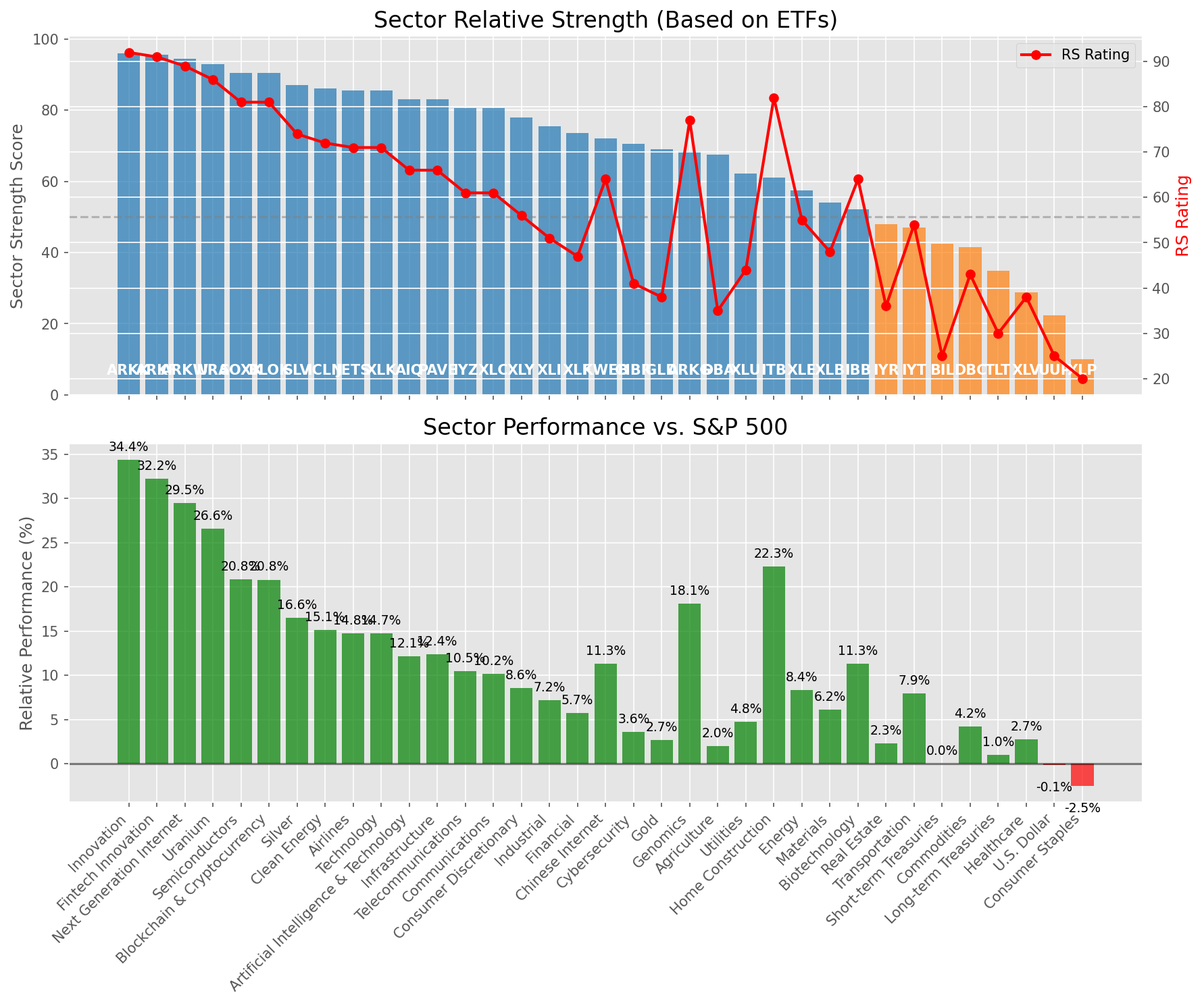
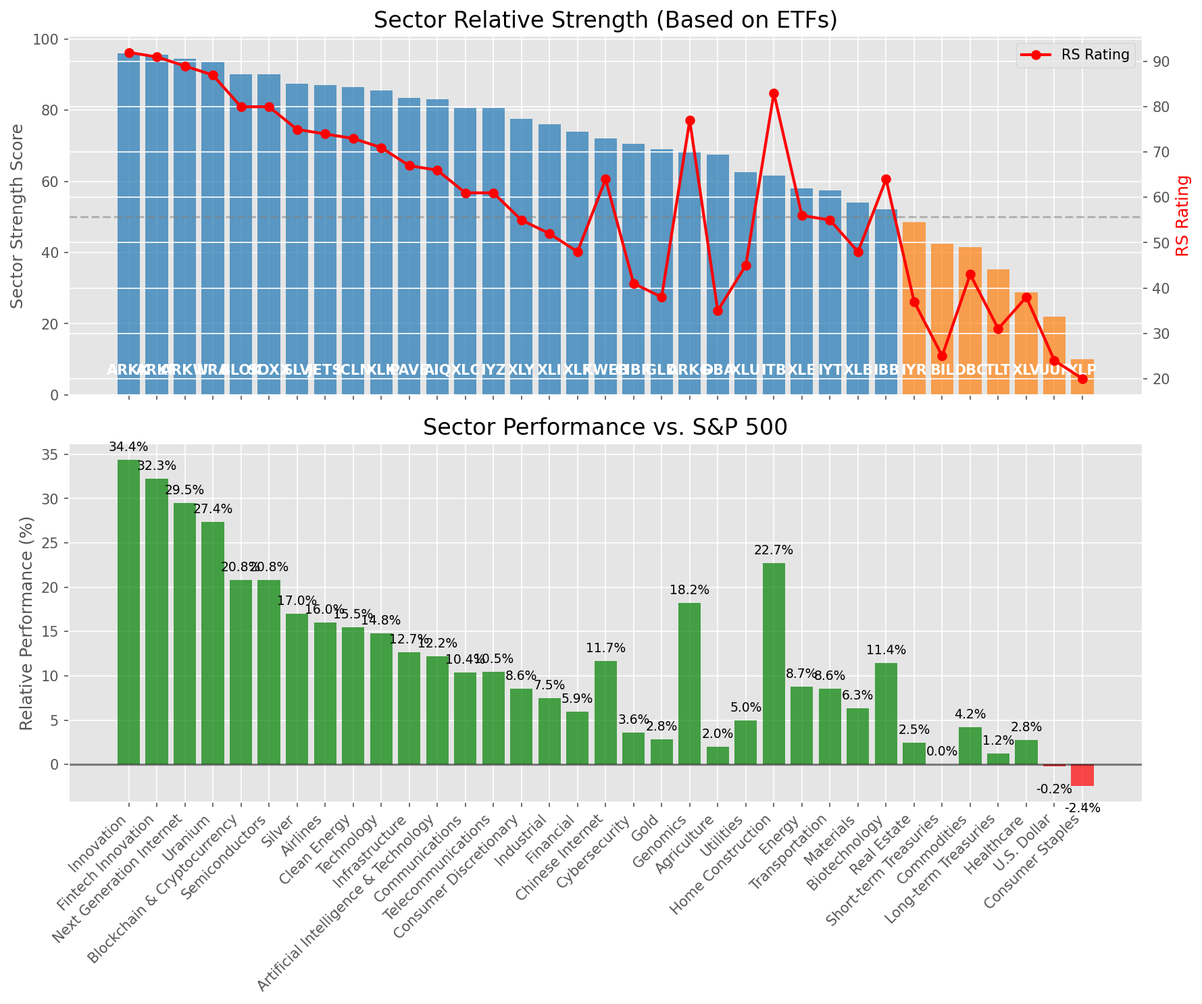
Add market report for 2025-08-28

diff --git a/oneil_relative_strength_report_2025-08-28.md b/oneil_relative_strength_report_2025-08-28.md
@@ -13,7 +13,7 @@
 | **Historical Mean** | 9.94 |
 | **Standard Deviation** | 0.38 |
 | **Z-Score (StdDev from Mean)** | 1.49 |
-| **Total Market Cap** | $319.36 trillion |
+| **Total Market Cap** | $319.47 trillion |
 | **GDP** | $30.35 trillion |
 
 ## **Market Insights**
@@ -50,40 +50,40 @@ Based on William O'Neil's Relative Strength Methodology
 | ETF | Strength | RS Rating | Performance | Above Key MAs | Trend | Sector |
 |-----|----------|-----------|-------------|--------------|-------|--------|
 | [ARKK](https://www.tradingview.com/chart/?symbol=ARKK) | 96.0 | 92.0 | 34.39% | 10d ✓, 50d ✓, 200d ✓ | ↗ | Innovation |
-| [ARKF](https://www.tradingview.com/chart/?symbol=ARKF) | 95.5 | 91.0 | 32.21% | 10d ✓, 50d ✓, 200d ✓ | ↗ | Fintech Innovation |
+| [ARKF](https://www.tradingview.com/chart/?symbol=ARKF) | 95.5 | 91.0 | 32.27% | 10d ✓, 50d ✓, 200d ✓ | ↗ | Fintech Innovation |
 | [ARKW](https://www.tradingview.com/chart/?symbol=ARKW) | 94.5 | 89.0 | 29.50% | 10d ✓, 50d ✓, 200d ✓ | ↗ | Next Generation Internet |
-| [URA](https://www.tradingview.com/chart/?symbol=URA) | 93.0 | 86.0 | 26.60% | 10d ✓, 50d ✓, 200d ✓ | ↗ | Uranium |
-| [SOXX](https://www.tradingview.com/chart/?symbol=SOXX) | 90.5 | 81.0 | 20.84% | 10d ✓, 50d ✓, 200d ✓ | ↗ | Semiconductors |
-| [BLOK](https://www.tradingview.com/chart/?symbol=BLOK) | 90.5 | 81.0 | 20.83% | 10d ✓, 50d ✓, 200d ✓ | ↗ | Blockchain & Cryptocurrency |
-| [SLV](https://www.tradingview.com/chart/?symbol=SLV) | 87.0 | 74.0 | 16.55% | 10d ✓, 50d ✓, 200d ✓ | ↗ | Silver |
-| [ICLN](https://www.tradingview.com/chart/?symbol=ICLN) | 86.0 | 72.0 | 15.15% | 10d ✓, 50d ✓, 200d ✓ | ↗ | Clean Energy |
-| [JETS](https://www.tradingview.com/chart/?symbol=JETS) | 85.5 | 71.0 | 14.78% | 10d ✓, 50d ✓, 200d ✓ | ↗ | Airlines |
-| [XLK](https://www.tradingview.com/chart/?symbol=XLK) | 85.5 | 71.0 | 14.73% | 10d ✓, 50d ✓, 200d ✓ | ↗ | Technology |
-| [AIQ](https://www.tradingview.com/chart/?symbol=AIQ) | 83.0 | 66.0 | 12.15% | 10d ✓, 50d ✓, 200d ✓ | ↗ | Artificial Intelligence & Technology |
-| [PAVE](https://www.tradingview.com/chart/?symbol=PAVE) | 83.0 | 66.0 | 12.39% | 10d ✓, 50d ✓, 200d ✓ | ↗ | Infrastructure |
+| [URA](https://www.tradingview.com/chart/?symbol=URA) | 93.5 | 87.0 | 27.37% | 10d ✓, 50d ✓, 200d ✓ | ↗ | Uranium |
+| [BLOK](https://www.tradingview.com/chart/?symbol=BLOK) | 90.0 | 80.0 | 20.83% | 10d ✓, 50d ✓, 200d ✓ | ↗ | Blockchain & Cryptocurrency |
+| [SOXX](https://www.tradingview.com/chart/?symbol=SOXX) | 90.0 | 80.0 | 20.84% | 10d ✓, 50d ✓, 200d ✓ | ↗ | Semiconductors |
+| [SLV](https://www.tradingview.com/chart/?symbol=SLV) | 87.5 | 75.0 | 16.98% | 10d ✓, 50d ✓, 200d ✓ | ↗ | Silver |
+| [JETS](https://www.tradingview.com/chart/?symbol=JETS) | 87.0 | 74.0 | 16.01% | 10d ✓, 50d ✓, 200d ✓ | ↗ | Airlines |
+| [ICLN](https://www.tradingview.com/chart/?symbol=ICLN) | 86.5 | 73.0 | 15.46% | 10d ✓, 50d ✓, 200d ✓ | ↗ | Clean Energy |
+| [XLK](https://www.tradingview.com/chart/?symbol=XLK) | 85.5 | 71.0 | 14.77% | 10d ✓, 50d ✓, 200d ✓ | ↗ | Technology |
+| [PAVE](https://www.tradingview.com/chart/?symbol=PAVE) | 83.5 | 67.0 | 12.70% | 10d ✓, 50d ✓, 200d ✓ | ↗ | Infrastructure |
+| [AIQ](https://www.tradingview.com/chart/?symbol=AIQ) | 83.0 | 66.0 | 12.24% | 10d ✓, 50d ✓, 200d ✓ | ↗ | Artificial Intelligence & Technology |
+| [XLC](https://www.tradingview.com/chart/?symbol=XLC) | 80.5 | 61.0 | 10.36% | 10d ✓, 50d ✓, 200d ✓ | ↗ | Communications |
 | [IYZ](https://www.tradingview.com/chart/?symbol=IYZ) | 80.5 | 61.0 | 10.46% | 10d ✓, 50d ✓, 200d ✓ | ↗ | Telecommunications |
-| [XLC](https://www.tradingview.com/chart/?symbol=XLC) | 80.5 | 61.0 | 10.20% | 10d ✓, 50d ✓, 200d ✓ | ↗ | Communications |
-| [XLY](https://www.tradingview.com/chart/?symbol=XLY) | 78.0 | 56.0 | 8.61% | 10d ✓, 50d ✓, 200d ✓ | ↗ | Consumer Discretionary |
-| [XLI](https://www.tradingview.com/chart/?symbol=XLI) | 75.5 | 51.0 | 7.18% | 10d ✓, 50d ✓, 200d ✓ | ↗ | Industrial |
-| [XLF](https://www.tradingview.com/chart/?symbol=XLF) | 73.5 | 47.0 | 5.73% | 10d ✓, 50d ✓, 200d ✓ | ↗ | Financial |
-| [KWEB](https://www.tradingview.com/chart/?symbol=KWEB) | 72.1 | 64.0 | 11.31% | 10d ✗, 50d ✓, 200d ✓ | ↗ | Chinese Internet |
-| [CIBR](https://www.tradingview.com/chart/?symbol=CIBR) | 70.5 | 41.0 | 3.61% | 10d ✓, 50d ✓, 200d ✓ | ↗ | Cybersecurity |
-| [GLD](https://www.tradingview.com/chart/?symbol=GLD) | 69.0 | 38.0 | 2.71% | 10d ✓, 50d ✓, 200d ✓ | ↗ | Gold |
-| [ARKG](https://www.tradingview.com/chart/?symbol=ARKG) | 68.5 | 77.0 | 18.10% | 10d ✓, 50d ✓, 200d ✓ | ↘ | Genomics |
+| [XLY](https://www.tradingview.com/chart/?symbol=XLY) | 77.5 | 55.0 | 8.58% | 10d ✓, 50d ✓, 200d ✓ | ↗ | Consumer Discretionary |
+| [XLI](https://www.tradingview.com/chart/?symbol=XLI) | 76.0 | 52.0 | 7.51% | 10d ✓, 50d ✓, 200d ✓ | ↗ | Industrial |
+| [XLF](https://www.tradingview.com/chart/?symbol=XLF) | 74.0 | 48.0 | 5.95% | 10d ✓, 50d ✓, 200d ✓ | ↗ | Financial |
+| [KWEB](https://www.tradingview.com/chart/?symbol=KWEB) | 72.1 | 64.0 | 11.68% | 10d ✗, 50d ✓, 200d ✓ | ↗ | Chinese Internet |
+| [CIBR](https://www.tradingview.com/chart/?symbol=CIBR) | 70.5 | 41.0 | 3.59% | 10d ✓, 50d ✓, 200d ✓ | ↗ | Cybersecurity |
+| [GLD](https://www.tradingview.com/chart/?symbol=GLD) | 69.0 | 38.0 | 2.82% | 10d ✓, 50d ✓, 200d ✓ | ↗ | Gold |
+| [ARKG](https://www.tradingview.com/chart/?symbol=ARKG) | 68.5 | 77.0 | 18.22% | 10d ✓, 50d ✓, 200d ✓ | ↘ | Genomics |
 | [DBA](https://www.tradingview.com/chart/?symbol=DBA) | 67.5 | 35.0 | 1.99% | 10d ✓, 50d ✓, 200d ✓ | ↗ | Agriculture |
-| [XLU](https://www.tradingview.com/chart/?symbol=XLU) | 62.1 | 44.0 | 4.77% | 10d ✗, 50d ✓, 200d ✓ | ↗ | Utilities |
-| [ITB](https://www.tradingview.com/chart/?symbol=ITB) | 61.1 | 82.0 | 22.35% | 10d ✗, 50d ✓, 200d ✓ | ↘ | Home Construction |
-| [XLE](https://www.tradingview.com/chart/?symbol=XLE) | 57.5 | 55.0 | 8.35% | 10d ✓, 50d ✓, 200d ✓ | ↘ | Energy |
-| [XLB](https://www.tradingview.com/chart/?symbol=XLB) | 54.0 | 48.0 | 6.15% | 10d ✓, 50d ✓, 200d ✓ | ↘ | Materials |
-| [IBB](https://www.tradingview.com/chart/?symbol=IBB) | 52.1 | 64.0 | 11.34% | 10d ✗, 50d ✓, 200d ✓ | ↘ | Biotechnology |
-| [IYR](https://www.tradingview.com/chart/?symbol=IYR) | 48.0 | 36.0 | 2.34% | 10d ✓, 50d ✓, 200d ✓ | ↘ | Real Estate |
-| [IYT](https://www.tradingview.com/chart/?symbol=IYT) | 47.1 | 54.0 | 7.94% | 10d ✗, 50d ✓, 200d ✓ | ↘ | Transportation |
-| [BIL](https://www.tradingview.com/chart/?symbol=BIL) | 42.5 | 25.0 | 0.02% | 10d ✓, 50d ✓, 200d ✓ | ↘ | Short-term Treasuries |
+| [XLU](https://www.tradingview.com/chart/?symbol=XLU) | 62.6 | 45.0 | 4.99% | 10d ✗, 50d ✓, 200d ✓ | ↗ | Utilities |
+| [ITB](https://www.tradingview.com/chart/?symbol=ITB) | 61.6 | 83.0 | 22.70% | 10d ✗, 50d ✓, 200d ✓ | ↘ | Home Construction |
+| [XLE](https://www.tradingview.com/chart/?symbol=XLE) | 58.0 | 56.0 | 8.74% | 10d ✓, 50d ✓, 200d ✓ | ↘ | Energy |
+| [IYT](https://www.tradingview.com/chart/?symbol=IYT) | 57.5 | 55.0 | 8.56% | 10d ✓, 50d ✓, 200d ✓ | ↘ | Transportation |
+| [XLB](https://www.tradingview.com/chart/?symbol=XLB) | 54.0 | 48.0 | 6.31% | 10d ✓, 50d ✓, 200d ✓ | ↘ | Materials |
+| [IBB](https://www.tradingview.com/chart/?symbol=IBB) | 52.1 | 64.0 | 11.41% | 10d ✗, 50d ✓, 200d ✓ | ↘ | Biotechnology |
+| [IYR](https://www.tradingview.com/chart/?symbol=IYR) | 48.5 | 37.0 | 2.46% | 10d ✓, 50d ✓, 200d ✓ | ↘ | Real Estate |
+| [BIL](https://www.tradingview.com/chart/?symbol=BIL) | 42.5 | 25.0 | 0.03% | 10d ✓, 50d ✓, 200d ✓ | ↘ | Short-term Treasuries |
 | [DBC](https://www.tradingview.com/chart/?symbol=DBC) | 41.6 | 43.0 | 4.21% | 10d ✓, 50d ✗, 200d ✓ | ↘ | Commodities |
-| [TLT](https://www.tradingview.com/chart/?symbol=TLT) | 34.8 | 30.0 | 1.04% | 10d ✓, 50d ✓, 200d ✗ | ↘ | Long-term Treasuries |
-| [XLV](https://www.tradingview.com/chart/?symbol=XLV) | 28.9 | 38.0 | 2.74% | 10d ✗, 50d ✓, 200d ✗ | ↘ | Healthcare |
-| [UUP](https://www.tradingview.com/chart/?symbol=UUP) | 22.4 | 25.0 | -0.13% | 10d ✗, 50d ✓, 200d ✗ | ↘ | U.S. Dollar |
-| [XLP](https://www.tradingview.com/chart/?symbol=XLP) | 10.0 | 20.0 | -2.49% | 10d ✗, 50d ✗, 200d ✗ | ↘ | Consumer Staples |
+| [TLT](https://www.tradingview.com/chart/?symbol=TLT) | 35.3 | 31.0 | 1.22% | 10d ✓, 50d ✓, 200d ✗ | ↘ | Long-term Treasuries |
+| [XLV](https://www.tradingview.com/chart/?symbol=XLV) | 28.9 | 38.0 | 2.77% | 10d ✗, 50d ✓, 200d ✗ | ↘ | Healthcare |
+| [UUP](https://www.tradingview.com/chart/?symbol=UUP) | 21.9 | 24.0 | -0.22% | 10d ✗, 50d ✓, 200d ✗ | ↘ | U.S. Dollar |
+| [XLP](https://www.tradingview.com/chart/?symbol=XLP) | 10.0 | 20.0 | -2.42% | 10d ✗, 50d ✗, 200d ✗ | ↘ | Consumer Staples |
 
 ### **Sector ETF Performance Interpretation**
 
@@ -106,183 +106,179 @@ The **Innovation** sector (represented by **ARKK**) is showing particularly stro
 
 ## **Buy Recommendations**
 
-The following 48 stocks show exceptional relative strength:
+The following 50 stocks show exceptional relative strength:
 
 | RS Rating | Buy Score | Current Price | Chart | Name | Ticker |
 |-----------|-----------|---------------|-------|------|--------|
-| 100 | 100 | $68.06 | [Chart](https://www.tradingview.com/chart/?symbol=KTOS) | Kratos Defense & Security Solutions, Inc. | KTOS |
-| 100 | 100 | $187.56 | [Chart](https://www.tradingview.com/chart/?symbol=FUTU) | Futu Holdings Limited American Depositary Shares | FUTU |
-| 100 | 100 | $73.03 | [Chart](https://www.tradingview.com/chart/?symbol=MP) | MP Materials Corp. | MP |
-| 100 | 100 | $208.57 | [Chart](https://www.tradingview.com/chart/?symbol=CLS) | Celestica, Inc. | CLS |
-| 100 | 100 | $131.46 | [Chart](https://www.tradingview.com/chart/?symbol=CRDO) | Credo Technology Group Holding Ltd Ordinary Shares | CRDO |
-| 100 | 100 | $28.40 | [Chart](https://www.tradingview.com/chart/?symbol=LQDA) | Liquidia Corporation Common Stock | LQDA |
-| 99 | 100 | $213.37 | [Chart](https://www.tradingview.com/chart/?symbol=LEU) | Centrus Energy Corp. | LEU |
-| 99 | 100 | $46.58 | [Chart](https://www.tradingview.com/chart/?symbol=RKLB) | Rocket Lab Corporation Common Stock | RKLB |
+| 100 | 100 | $73.80 | [Chart](https://www.tradingview.com/chart/?symbol=MP) | MP Materials Corp. | MP |
+| 100 | 100 | $211.73 | [Chart](https://www.tradingview.com/chart/?symbol=CLS) | Celestica, Inc. | CLS |
+| 100 | 100 | $68.22 | [Chart](https://www.tradingview.com/chart/?symbol=KTOS) | Kratos Defense & Security Solutions, Inc. | KTOS |
+| 100 | 100 | $132.85 | [Chart](https://www.tradingview.com/chart/?symbol=CRDO) | Credo Technology Group Holding Ltd Ordinary Shares | CRDO |
+| 100 | 100 | $28.24 | [Chart](https://www.tradingview.com/chart/?symbol=LQDA) | Liquidia Corporation Common Stock | LQDA |
+| 99 | 100 | $187.79 | [Chart](https://www.tradingview.com/chart/?symbol=FUTU) | Futu Holdings Limited American Depositary Shares | FUTU |
+| 99 | 100 | $212.56 | [Chart](https://www.tradingview.com/chart/?symbol=LEU) | Centrus Energy Corp. | LEU |
+| 99 | 100 | $47.27 | [Chart](https://www.tradingview.com/chart/?symbol=RKLB) | Rocket Lab Corporation Common Stock | RKLB |
 | 98 | 100 | $58.79 | [Chart](https://www.tradingview.com/chart/?symbol=TPC) | Tutor Perini Corporation | TPC |
-| 98 | 100 | $389.98 | [Chart](https://www.tradingview.com/chart/?symbol=TLN) | Talen Energy Corporation Common Stock | TLN |
+| 98 | 100 | $46.58 | [Chart](https://www.tradingview.com/chart/?symbol=TTMI) | TTM Technologies Inc | TTMI |
+| 98 | 100 | $393.13 | [Chart](https://www.tradingview.com/chart/?symbol=TLN) | Talen Energy Corporation Common Stock | TLN |
 | 98 | 100 | $35.59 | [Chart](https://www.tradingview.com/chart/?symbol=CPS) | Cooper-Standard Automotive Inc. | CPS |
-| 97 | 100 | $46.02 | [Chart](https://www.tradingview.com/chart/?symbol=TTMI) | TTM Technologies Inc | TTMI |
-| 97 | 100 | $126.54 | [Chart](https://www.tradingview.com/chart/?symbol=RBLX) | Roblox Corporation | RBLX |
+| 97 | 100 | $126.39 | [Chart](https://www.tradingview.com/chart/?symbol=RBLX) | Roblox Corporation | RBLX |
 | 96 | 100 | $92.40 | [Chart](https://www.tradingview.com/chart/?symbol=LIF) | Life360, Inc. Common Stock | LIF |
-| 95 | 100 | $119.23 | [Chart](https://www.tradingview.com/chart/?symbol=SANM) | Sanmina  Corp | SANM |
-| 95 | 100 | $361.56 | [Chart](https://www.tradingview.com/chart/?symbol=RCL) | Royal Caribbean Group | RCL |
-| 95 | 100 | $63.27 | [Chart](https://www.tradingview.com/chart/?symbol=VIK) | Viking Holdings Ltd | VIK |
-| 94 | 100 | $68.13 | [Chart](https://www.tradingview.com/chart/?symbol=MRCY) | Mercury Systems Inc. | MRCY |
-| 94 | 100 | $98.49 | [Chart](https://www.tradingview.com/chart/?symbol=TPB) | Turning Point Brands, Inc. | TPB |
-| 93 | 100 | $639.44 | [Chart](https://www.tradingview.com/chart/?symbol=GEV) | GE Vernova Inc. | GEV |
-| 91 | 100 | $54.12 | [Chart](https://www.tradingview.com/chart/?symbol=ARKF) | ARK Fintech Innovation ETF | ARKF |
-| 90 | 100 | $75.45 | [Chart](https://www.tradingview.com/chart/?symbol=WNS) | WNS (Holdings) Limited | WNS |
-| 90 | 100 | $31.52 | [Chart](https://www.tradingview.com/chart/?symbol=SRAD) | Sportradar Group AG Class A Ordinary Shares | SRAD |
+| 95 | 100 | $52.90 | [Chart](https://www.tradingview.com/chart/?symbol=REVG) | REV Group, Inc. | REVG |
+| 95 | 100 | $118.98 | [Chart](https://www.tradingview.com/chart/?symbol=SANM) | Sanmina  Corp | SANM |
+| 95 | 100 | $362.83 | [Chart](https://www.tradingview.com/chart/?symbol=RCL) | Royal Caribbean Group | RCL |
+| 95 | 100 | $63.87 | [Chart](https://www.tradingview.com/chart/?symbol=VIK) | Viking Holdings Ltd | VIK |
+| 94 | 100 | $68.05 | [Chart](https://www.tradingview.com/chart/?symbol=MRCY) | Mercury Systems Inc. | MRCY |
+| 93 | 100 | $99.48 | [Chart](https://www.tradingview.com/chart/?symbol=TPB) | Turning Point Brands, Inc. | TPB |
+| 93 | 100 | $640.41 | [Chart](https://www.tradingview.com/chart/?symbol=GEV) | GE Vernova Inc. | GEV |
+| 91 | 100 | $54.14 | [Chart](https://www.tradingview.com/chart/?symbol=ARKF) | ARK Fintech Innovation ETF | ARKF |
 | 90 | 100 | $96.56 | [Chart](https://www.tradingview.com/chart/?symbol=LLYVK) | Liberty Media Corporation Series C Liberty Live Common Stock | LLYVK |
-| 90 | 100 | $49.03 | [Chart](https://www.tradingview.com/chart/?symbol=LTM) | LATAM Airlines Group S.A. American Depositary Shares (each representing two thousand (2,000) shares of Common Stock) | LTM |
-| 89 | 100 | $101.67 | [Chart](https://www.tradingview.com/chart/?symbol=TPR) | Tapestry, Inc. Common Stock | TPR |
-| 89 | 100 | $60.81 | [Chart](https://www.tradingview.com/chart/?symbol=CALX) | CALIX, INC. | CALX |
-| 89 | 99 | $55.82 | [Chart](https://www.tradingview.com/chart/?symbol=SIL) | Global X Silver Miners ETF (NEW) | SIL |
+| 90 | 100 | $31.54 | [Chart](https://www.tradingview.com/chart/?symbol=SRAD) | Sportradar Group AG Class A Ordinary Shares | SRAD |
+| 90 | 100 | $75.50 | [Chart](https://www.tradingview.com/chart/?symbol=WNS) | WNS (Holdings) Limited | WNS |
+| 90 | 100 | $60.88 | [Chart](https://www.tradingview.com/chart/?symbol=CALX) | CALIX, INC. | CALX |
+| 90 | 100 | $56.15 | [Chart](https://www.tradingview.com/chart/?symbol=SIL) | Global X Silver Miners ETF (NEW) | SIL |
+| 90 | 100 | $49.55 | [Chart](https://www.tradingview.com/chart/?symbol=LTM) | LATAM Airlines Group S.A. American Depositary Shares (each representing two thousand (2,000) shares of Common Stock) | LTM |
+| 89 | 100 | $212.78 | [Chart](https://www.tradingview.com/chart/?symbol=NET) | Cloudflare, Inc. Class A common stock, par value $0.001 per share | NET |
+| 89 | 100 | $101.62 | [Chart](https://www.tradingview.com/chart/?symbol=TPR) | Tapestry, Inc. Common Stock | TPR |
+| 90 | 99 | $23.09 | [Chart](https://www.tradingview.com/chart/?symbol=BZ) | KANZHUN LIMITED American Depository Shares | BZ |
 | 89 | 99 | $157.24 | [Chart](https://www.tradingview.com/chart/?symbol=ARKW) | ARK Next Generation Internet ETF | ARKW |
-| 88 | 99 | $96.97 | [Chart](https://www.tradingview.com/chart/?symbol=C) | Citigroup Inc. | C |
+| 88 | 99 | $96.91 | [Chart](https://www.tradingview.com/chart/?symbol=C) | Citigroup Inc. | C |
 | 87 | 99 | $165.07 | [Chart](https://www.tradingview.com/chart/?symbol=VSEC) | VSE Corp | VSEC |
-| 86 | 99 | $269.68 | [Chart](https://www.tradingview.com/chart/?symbol=IDCC) | InterDigital, Inc. | IDCC |
-| 89 | 98 | $23.04 | [Chart](https://www.tradingview.com/chart/?symbol=BZ) | KANZHUN LIMITED American Depository Shares | BZ |
-| 87 | 98 | $23.69 | [Chart](https://www.tradingview.com/chart/?symbol=MAG) | MAG Silver Corp. | MAG |
-| 85 | 98 | $52.01 | [Chart](https://www.tradingview.com/chart/?symbol=RING) | iShares MSCI Global Gold Miners ETF | RING |
-| 88 | 97 | $17.67 | [Chart](https://www.tradingview.com/chart/?symbol=ARLO) | Arlo Technologies, Inc. | ARLO |
+| 86 | 99 | $269.95 | [Chart](https://www.tradingview.com/chart/?symbol=IDCC) | InterDigital, Inc. | IDCC |
+| 89 | 98 | $17.81 | [Chart](https://www.tradingview.com/chart/?symbol=ARLO) | Arlo Technologies, Inc. | ARLO |
+| 87 | 98 | $23.84 | [Chart](https://www.tradingview.com/chart/?symbol=MAG) | MAG Silver Corp. | MAG |
+| 85 | 98 | $52.18 | [Chart](https://www.tradingview.com/chart/?symbol=RING) | iShares MSCI Global Gold Miners ETF | RING |
 | 87 | 97 | $197.67 | [Chart](https://www.tradingview.com/chart/?symbol=AWI) | Armstrong World Industries, Inc. | AWI |
-| 86 | 96 | $53.69 | [Chart](https://www.tradingview.com/chart/?symbol=FHI) | Federated Hermes, Inc. | FHI |
-| 84 | 96 | $31.09 | [Chart](https://www.tradingview.com/chart/?symbol=OR) | OR Royalties Inc. | OR |
-| 85 | 95 | $16.40 | [Chart](https://www.tradingview.com/chart/?symbol=EZPW) | Ezcorp Inc | EZPW |
-| 82 | 95 | $27.42 | [Chart](https://www.tradingview.com/chart/?symbol=LAUR) | Laureate Education, Inc. Common Stock | LAUR |
-| 82 | 95 | $42.68 | [Chart](https://www.tradingview.com/chart/?symbol=AHR) | American Healthcare REIT, Inc. | AHR |
-| 83 | 93 | $28.34 | [Chart](https://www.tradingview.com/chart/?symbol=ACMR) | ACM Research, Inc. Class A Common Stock | ACMR |
+| 86 | 96 | $53.74 | [Chart](https://www.tradingview.com/chart/?symbol=FHI) | Federated Hermes, Inc. | FHI |
+| 82 | 95 | $27.43 | [Chart](https://www.tradingview.com/chart/?symbol=LAUR) | Laureate Education, Inc. Common Stock | LAUR |
+| 82 | 95 | $42.69 | [Chart](https://www.tradingview.com/chart/?symbol=AHR) | American Healthcare REIT, Inc. | AHR |
+| 84 | 94 | $28.40 | [Chart](https://www.tradingview.com/chart/?symbol=ACMR) | ACM Research, Inc. Class A Common Stock | ACMR |
+| 83 | 93 | $16.52 | [Chart](https://www.tradingview.com/chart/?symbol=EZPW) | Ezcorp Inc | EZPW |
+| 82 | 93 | $26.54 | [Chart](https://www.tradingview.com/chart/?symbol=TFPM) | Triple Flag Precious Metals Corp. | TFPM |
+| 82 | 93 | $38.91 | [Chart](https://www.tradingview.com/chart/?symbol=ATAT) | Atour Lifestyle Holdings Limited American Depositary Shares | ATAT |
 | 81 | 92 | $252.33 | [Chart](https://www.tradingview.com/chart/?symbol=BAP) | Credicorp LTD | BAP |
-| 81 | 92 | $26.34 | [Chart](https://www.tradingview.com/chart/?symbol=TFPM) | Triple Flag Precious Metals Corp. | TFPM |
-| 81 | 91 | $49.95 | [Chart](https://www.tradingview.com/chart/?symbol=FAST) | Fastenal Co | FAST |
-| 81 | 91 | $84.57 | [Chart](https://www.tradingview.com/chart/?symbol=SAH) | Sonic Automotive, Inc. | SAH |
-| 80 | 90 | $219.94 | [Chart](https://www.tradingview.com/chart/?symbol=AN) | AutoNation, Inc. | AN |
+| 81 | 91 | $50.11 | [Chart](https://www.tradingview.com/chart/?symbol=FAST) | Fastenal Co | FAST |
+| 80 | 90 | $84.57 | [Chart](https://www.tradingview.com/chart/?symbol=SAH) | Sonic Automotive, Inc. | SAH |
+| 80 | 90 | $220.28 | [Chart](https://www.tradingview.com/chart/?symbol=AN) | AutoNation, Inc. | AN |
 
 ---
 
 
 ## **Sell Recommendations**
 
-The following 115 stocks show deteriorating relative strength:
+The following 109 stocks show deteriorating relative strength:
 
 | RS Rating | Sell Score | Current Price | Chart | Name | Ticker |
 |-----------|------------|---------------|-------|------|--------|
-| 1 | 100 | $23.32 | [Chart](https://www.tradingview.com/chart/?symbol=TECS) | Direxion Daily Technology Bear 3x Shares | TECS |
-| 1 | 100 | $17.66 | [Chart](https://www.tradingview.com/chart/?symbol=DUST) | Direxion Daily Gold Miners Index Bear 2X Shares | DUST |
-| 2 | 100 | $36.61 | [Chart](https://www.tradingview.com/chart/?symbol=TWM) | ProShares UltraShort Russell2000 | TWM |
+| 1 | 100 | $17.50 | [Chart](https://www.tradingview.com/chart/?symbol=DUST) | Direxion Daily Gold Miners Index Bear 2X Shares | DUST |
+| 1 | 100 | $23.30 | [Chart](https://www.tradingview.com/chart/?symbol=TECS) | Direxion Daily Technology Bear 3x Shares | TECS |
+| 2 | 100 | $15.56 | [Chart](https://www.tradingview.com/chart/?symbol=SPT) | Sprout Social, Inc Class A Common Stock | SPT |
 | 2 | 100 | $15.10 | [Chart](https://www.tradingview.com/chart/?symbol=KRNT) | Kornit Digital Ltd. | KRNT |
-| 2 | 100 | $21.89 | [Chart](https://www.tradingview.com/chart/?symbol=ZSL) | ProShares UltraShort Silver | ZSL |
-| 2 | 100 | $15.64 | [Chart](https://www.tradingview.com/chart/?symbol=SPT) | Sprout Social, Inc Class A Common Stock | SPT |
+| 2 | 100 | $21.79 | [Chart](https://www.tradingview.com/chart/?symbol=ZSL) | ProShares UltraShort Silver | ZSL |
+| 2 | 100 | $36.61 | [Chart](https://www.tradingview.com/chart/?symbol=TWM) | ProShares UltraShort Russell2000 | TWM |
 | 3 | 100 | $21.45 | [Chart](https://www.tradingview.com/chart/?symbol=CLW) | Clearwater Paper Corporation | CLW |
-| 3 | 100 | $44.78 | [Chart](https://www.tradingview.com/chart/?symbol=ONON) | On Holding AG | ONON |
-| 4 | 100 | $38.09 | [Chart](https://www.tradingview.com/chart/?symbol=SDOW) | ProShares UltraPro Short Dow 30 | SDOW |
-| 4 | 100 | $36.41 | [Chart](https://www.tradingview.com/chart/?symbol=IOT) | Samsara Inc. | IOT |
-| 5 | 100 | $47.53 | [Chart](https://www.tradingview.com/chart/?symbol=EXAS) | Exact Sciences Corp | EXAS |
-| 5 | 100 | $11.78 | [Chart](https://www.tradingview.com/chart/?symbol=CHPT) | ChargePoint Holdings, Inc. | CHPT |
+| 3 | 100 | $45.01 | [Chart](https://www.tradingview.com/chart/?symbol=ONON) | On Holding AG | ONON |
+| 4 | 100 | $37.84 | [Chart](https://www.tradingview.com/chart/?symbol=SDOW) | ProShares UltraPro Short Dow 30 | SDOW |
+| 4 | 100 | $36.54 | [Chart](https://www.tradingview.com/chart/?symbol=IOT) | Samsara Inc. | IOT |
+| 5 | 100 | $47.40 | [Chart](https://www.tradingview.com/chart/?symbol=EXAS) | Exact Sciences Corp | EXAS |
+| 5 | 100 | $11.73 | [Chart](https://www.tradingview.com/chart/?symbol=CHPT) | ChargePoint Holdings, Inc. | CHPT |
+| 5 | 100 | $20.61 | [Chart](https://www.tradingview.com/chart/?symbol=ERY) | Direxion Daily Energy Bear 2X Shares | ERY |
+| 6 | 100 | $352.22 | [Chart](https://www.tradingview.com/chart/?symbol=ADBE) | Adobe Inc. | ADBE |
 | 6 | 100 | $16.04 | [Chart](https://www.tradingview.com/chart/?symbol=BTAL) | AGF U.S. Market Neutral Anti-Beta Fund | BTAL |
-| 6 | 100 | $15.25 | [Chart](https://www.tradingview.com/chart/?symbol=PRO) | Pros Holdings, Inc. | PRO |
-| 7 | 100 | $17.95 | [Chart](https://www.tradingview.com/chart/?symbol=DJT) | Trump Media & Technology Group Corp. Common Stock | DJT |
-| 7 | 100 | $19.00 | [Chart](https://www.tradingview.com/chart/?symbol=GPCR) | Structure Therapeutics Inc. American Depositary Shares | GPCR |
-| 7 | 100 | $353.23 | [Chart](https://www.tradingview.com/chart/?symbol=ADBE) | Adobe Inc. | ADBE |
-| 10 | 100 | $59.65 | [Chart](https://www.tradingview.com/chart/?symbol=ATKR) | Atkore Inc. | ATKR |
-| 11 | 100 | $38.32 | [Chart](https://www.tradingview.com/chart/?symbol=SH) | ProShares Short S&P500 | SH |
-| 14 | 100 | $15.25 | [Chart](https://www.tradingview.com/chart/?symbol=CHCT) | Community Healthcare Trust Incorporated Common Stock, $0.01 par value per share | CHCT |
+| 7 | 100 | $17.98 | [Chart](https://www.tradingview.com/chart/?symbol=DJT) | Trump Media & Technology Group Corp. Common Stock | DJT |
+| 10 | 100 | $59.02 | [Chart](https://www.tradingview.com/chart/?symbol=ATKR) | Atkore Inc. | ATKR |
+| 12 | 100 | $38.29 | [Chart](https://www.tradingview.com/chart/?symbol=SH) | ProShares Short S&P500 | SH |
 | 14 | 100 | $17.14 | [Chart](https://www.tradingview.com/chart/?symbol=CTO) | CTO Realty Growth, Inc. | CTO |
-| 18 | 100 | $47.22 | [Chart](https://www.tradingview.com/chart/?symbol=EDU) | New Oriental Education and Technology Group, Inc. American Depositary Shares (each representing ten (10) Common Shares) | EDU |
-| 5 | 99 | $20.74 | [Chart](https://www.tradingview.com/chart/?symbol=ERY) | Direxion Daily Energy Bear 2X Shares | ERY |
+| 14 | 100 | $15.25 | [Chart](https://www.tradingview.com/chart/?symbol=CHCT) | Community Healthcare Trust Incorporated Common Stock, $0.01 par value per share | CHCT |
+| 19 | 100 | $47.63 | [Chart](https://www.tradingview.com/chart/?symbol=EDU) | New Oriental Education and Technology Group, Inc. American Depositary Shares (each representing ten (10) Common Shares) | EDU |
 | 5 | 99 | $15.60 | [Chart](https://www.tradingview.com/chart/?symbol=MCS) | The Marcus Corporation | MCS |
-| 16 | 99 | $10.05 | [Chart](https://www.tradingview.com/chart/?symbol=NMZ) | Nuveen Municipal High Income Opportunity Fund | NMZ |
+| 16 | 99 | $10.04 | [Chart](https://www.tradingview.com/chart/?symbol=NMZ) | Nuveen Municipal High Income Opportunity Fund | NMZ |
 | 8 | 98 | $25.13 | [Chart](https://www.tradingview.com/chart/?symbol=GDEN) | Golden Entertainment, Inc. Common Stock | GDEN |
-| 14 | 98 | $22.87 | [Chart](https://www.tradingview.com/chart/?symbol=DIN) | Dine Brands Global, Inc. | DIN |
-| 11 | 97 | $32.57 | [Chart](https://www.tradingview.com/chart/?symbol=PSQ) | ProShares Short QQQ | PSQ |
-| 12 | 97 | $155.55 | [Chart](https://www.tradingview.com/chart/?symbol=PG) | Procter & Gamble Company | PG |
-| 14 | 97 | $38.77 | [Chart](https://www.tradingview.com/chart/?symbol=UDR) | UDR, Inc. | UDR |
+| 13 | 98 | $22.64 | [Chart](https://www.tradingview.com/chart/?symbol=DIN) | Dine Brands Global, Inc. | DIN |
+| 14 | 98 | $91.76 | [Chart](https://www.tradingview.com/chart/?symbol=IRM) | Iron Mountain Inc. | IRM |
+| 15 | 98 | $110.18 | [Chart](https://www.tradingview.com/chart/?symbol=CPT) | Camden Property Trust | CPT |
+| 12 | 97 | $155.52 | [Chart](https://www.tradingview.com/chart/?symbol=PG) | Procter & Gamble Company | PG |
 | 14 | 97 | $10.42 | [Chart](https://www.tradingview.com/chart/?symbol=OEC) | Orion S.A. | OEC |
-| 4 | 96 | $31.34 | [Chart](https://www.tradingview.com/chart/?symbol=YELP) | YELP INC. | YELP |
-| 8 | 96 | $11.31 | [Chart](https://www.tradingview.com/chart/?symbol=PATH) | UiPath, Inc. | PATH |
+| 14 | 97 | $38.87 | [Chart](https://www.tradingview.com/chart/?symbol=UDR) | UDR, Inc. | UDR |
+| 4 | 96 | $31.33 | [Chart](https://www.tradingview.com/chart/?symbol=YELP) | YELP INC. | YELP |
+| 8 | 96 | $11.30 | [Chart](https://www.tradingview.com/chart/?symbol=PATH) | UiPath, Inc. | PATH |
+| 11 | 96 | $32.57 | [Chart](https://www.tradingview.com/chart/?symbol=PSQ) | ProShares Short QQQ | PSQ |
 | 13 | 96 | $10.02 | [Chart](https://www.tradingview.com/chart/?symbol=SPDN) | Direxion Daily S&P 500 Bear 1X Shares | SPDN |
-| 13 | 96 | $24.91 | [Chart](https://www.tradingview.com/chart/?symbol=DOG) | ProShares Short Dow30 | DOG |
-| 9 | 95 | $785.24 | [Chart](https://www.tradingview.com/chart/?symbol=EQIX) | Equinix, Inc. Common Stock REIT | EQIX |
-| 12 | 95 | $26.57 | [Chart](https://www.tradingview.com/chart/?symbol=TWST) | Twist Bioscience Corporation Common Stock | TWST |
-| 12 | 95 | $30.80 | [Chart](https://www.tradingview.com/chart/?symbol=INVH) | Invitation Homes Inc. Common Stock | INVH |
-| 15 | 95 | $142.07 | [Chart](https://www.tradingview.com/chart/?symbol=EXR) | Extra Space Storage, Inc. | EXR |
-| 22 | 95 | $57.62 | [Chart](https://www.tradingview.com/chart/?symbol=BMRN) | BioMarin Pharmaceuticals Inc | BMRN |
-| 12 | 94 | $28.95 | [Chart](https://www.tradingview.com/chart/?symbol=CNX) | CNX Resources Corporation | CNX |
-| 15 | 94 | $91.87 | [Chart](https://www.tradingview.com/chart/?symbol=IRM) | Iron Mountain Inc. | IRM |
-| 17 | 94 | $110.56 | [Chart](https://www.tradingview.com/chart/?symbol=CPT) | Camden Property Trust | CPT |
-| 7 | 93 | $20.52 | [Chart](https://www.tradingview.com/chart/?symbol=KVUE) | Kenvue Inc. | KVUE |
-| 7 | 93 | $175.97 | [Chart](https://www.tradingview.com/chart/?symbol=TEAM) | Atlassian Corporation Class A Common Stock | TEAM |
+| 14 | 96 | $141.79 | [Chart](https://www.tradingview.com/chart/?symbol=EXR) | Extra Space Storage, Inc. | EXR |
+| 21 | 96 | $57.41 | [Chart](https://www.tradingview.com/chart/?symbol=BMRN) | BioMarin Pharmaceuticals Inc | BMRN |
+| 9 | 95 | $784.64 | [Chart](https://www.tradingview.com/chart/?symbol=EQIX) | Equinix, Inc. Common Stock REIT | EQIX |
+| 11 | 95 | $26.34 | [Chart](https://www.tradingview.com/chart/?symbol=TWST) | Twist Bioscience Corporation Common Stock | TWST |
+| 12 | 95 | $30.84 | [Chart](https://www.tradingview.com/chart/?symbol=INVH) | Invitation Homes Inc. Common Stock | INVH |
+| 13 | 95 | $24.85 | [Chart](https://www.tradingview.com/chart/?symbol=DOG) | ProShares Short Dow30 | DOG |
+| 14 | 94 | $19.73 | [Chart](https://www.tradingview.com/chart/?symbol=AMN) | AMN Healthcare Services | AMN |
+| 7 | 93 | $175.64 | [Chart](https://www.tradingview.com/chart/?symbol=TEAM) | Atlassian Corporation Class A Common Stock | TEAM |
 | 8 | 93 | $116.02 | [Chart](https://www.tradingview.com/chart/?symbol=IPAR) | Interparfums, Inc. Common Stock | IPAR |
-| 10 | 93 | $128.66 | [Chart](https://www.tradingview.com/chart/?symbol=KMB) | Kimberly-Clark Corp. | KMB |
-| 13 | 93 | $243.96 | [Chart](https://www.tradingview.com/chart/?symbol=EFX) | Equifax, Incorporated | EFX |
-| 14 | 93 | $193.59 | [Chart](https://www.tradingview.com/chart/?symbol=AVB) | AvalonBay Communities, Inc. | AVB |
-| 15 | 93 | $105.31 | [Chart](https://www.tradingview.com/chart/?symbol=MATX) | Matsons, Inc. | MATX |
-| 16 | 93 | $30.98 | [Chart](https://www.tradingview.com/chart/?symbol=EPRT) | Essential Properties Realty Trust, Inc. | EPRT |
+| 10 | 93 | $128.45 | [Chart](https://www.tradingview.com/chart/?symbol=KMB) | Kimberly-Clark Corp. | KMB |
+| 13 | 93 | $29.03 | [Chart](https://www.tradingview.com/chart/?symbol=CNX) | CNX Resources Corporation | CNX |
+| 13 | 93 | $244.81 | [Chart](https://www.tradingview.com/chart/?symbol=EFX) | Equifax, Incorporated | EFX |
+| 14 | 93 | $193.78 | [Chart](https://www.tradingview.com/chart/?symbol=AVB) | AvalonBay Communities, Inc. | AVB |
+| 16 | 93 | $30.95 | [Chart](https://www.tradingview.com/chart/?symbol=EPRT) | Essential Properties Realty Trust, Inc. | EPRT |
 | 17 | 93 | $19.21 | [Chart](https://www.tradingview.com/chart/?symbol=AVBP) | ArriVent BioPharma, Inc. Common Stock | AVBP |
-| 9 | 92 | $204.66 | [Chart](https://www.tradingview.com/chart/?symbol=MMC) | Marsh & McLennan Companies, Inc. | MMC |
-| 17 | 92 | $14.68 | [Chart](https://www.tradingview.com/chart/?symbol=GBDC) | Golub Capital BDC, Inc. | GBDC |
+| 8 | 92 | $20.66 | [Chart](https://www.tradingview.com/chart/?symbol=KVUE) | Kenvue Inc. | KVUE |
+| 16 | 92 | $105.31 | [Chart](https://www.tradingview.com/chart/?symbol=MATX) | Matsons, Inc. | MATX |
+| 13 | 91 | $14.77 | [Chart](https://www.tradingview.com/chart/?symbol=OSPN) | OneSpan Inc. Common Stock | OSPN |
 | 13 | 91 | $26.85 | [Chart](https://www.tradingview.com/chart/?symbol=THR) | THERMON GROUP HOLDINGS, INC. | THR |
 | 16 | 91 | $25.90 | [Chart](https://www.tradingview.com/chart/?symbol=FCPT) | Four Corners Property Trust, Inc. | FCPT |
+| 17 | 91 | $74.31 | [Chart](https://www.tradingview.com/chart/?symbol=CNS) | Cohen & Steers Inc. | CNS |
+| 18 | 91 | $14.70 | [Chart](https://www.tradingview.com/chart/?symbol=GBDC) | Golub Capital BDC, Inc. | GBDC |
 | 20 | 91 | $35.07 | [Chart](https://www.tradingview.com/chart/?symbol=RGR) | Sturm, Ruger & Company, Inc. | RGR |
 | 20 | 90 | $10.46 | [Chart](https://www.tradingview.com/chart/?symbol=NMFC) | NEW MOUNTAIN FINANCE CORPORATION | NMFC |
-| 11 | 89 | $65.10 | [Chart](https://www.tradingview.com/chart/?symbol=CBZ) | CBIZ, Inc. | CBZ |
-| 13 | 89 | $26.87 | [Chart](https://www.tradingview.com/chart/?symbol=SARO) | StandardAero, Inc. | SARO |
-| 18 | 89 | $79.53 | [Chart](https://www.tradingview.com/chart/?symbol=K) | Kellanova | K |
 | 18 | 89 | $75.11 | [Chart](https://www.tradingview.com/chart/?symbol=AWR) | American States Water Company | AWR |
 | 19 | 89 | $10.93 | [Chart](https://www.tradingview.com/chart/?symbol=MQY) | Blackrock Muni Yield Quality Fund, Inc | MQY |
+| 21 | 89 | $27.10 | [Chart](https://www.tradingview.com/chart/?symbol=WKC) | World Kinect Corporation | WKC |
 | 22 | 89 | $126.62 | [Chart](https://www.tradingview.com/chart/?symbol=ICUI) | ICU Medical Inc | ICUI |
-| 12 | 88 | $271.72 | [Chart](https://www.tradingview.com/chart/?symbol=CB) | Chubb Limited | CB |
-| 14 | 88 | $14.82 | [Chart](https://www.tradingview.com/chart/?symbol=OSPN) | OneSpan Inc. Common Stock | OSPN |
-| 15 | 88 | $51.00 | [Chart](https://www.tradingview.com/chart/?symbol=DT) | Dynatrace, Inc. | DT |
-| 18 | 88 | $21.02 | [Chart](https://www.tradingview.com/chart/?symbol=TDC) | TERADATA CORPORATION | TDC |
+| 12 | 88 | $271.96 | [Chart](https://www.tradingview.com/chart/?symbol=CB) | Chubb Limited | CB |
+| 13 | 88 | $26.96 | [Chart](https://www.tradingview.com/chart/?symbol=SARO) | StandardAero, Inc. | SARO |
+| 15 | 88 | $50.78 | [Chart](https://www.tradingview.com/chart/?symbol=DT) | Dynatrace, Inc. | DT |
+| 18 | 88 | $20.96 | [Chart](https://www.tradingview.com/chart/?symbol=TDC) | TERADATA CORPORATION | TDC |
+| 18 | 88 | $79.57 | [Chart](https://www.tradingview.com/chart/?symbol=K) | Kellanova | K |
 | 22 | 88 | $23.35 | [Chart](https://www.tradingview.com/chart/?symbol=JANX) | Janux Therapeutics, Inc. Common Stock | JANX |
-| 22 | 88 | $27.10 | [Chart](https://www.tradingview.com/chart/?symbol=WKC) | World Kinect Corporation | WKC |
-| 23 | 88 | $22.39 | [Chart](https://www.tradingview.com/chart/?symbol=CURB) | Curbline Properties Corp. | CURB |
 | 24 | 88 | $29.77 | [Chart](https://www.tradingview.com/chart/?symbol=MGPI) | MGP Ingredients Inc | MGPI |
-| 15 | 87 | $35.35 | [Chart](https://www.tradingview.com/chart/?symbol=AMH) | AMERICAN HOMES 4 RENT | AMH |
-| 17 | 87 | $68.94 | [Chart](https://www.tradingview.com/chart/?symbol=HSIC) | Henry Schein Inc | HSIC |
-| 20 | 87 | $26.64 | [Chart](https://www.tradingview.com/chart/?symbol=CZR) | Caesars Entertainment, Inc. Common Stock | CZR |
-| 20 | 87 | $80.00 | [Chart](https://www.tradingview.com/chart/?symbol=IR) | Ingersoll Rand Inc. Common Stock | IR |
-| 20 | 87 | $119.18 | [Chart](https://www.tradingview.com/chart/?symbol=RGEN) | Repligen Corp | RGEN |
-| 21 | 87 | $37.00 | [Chart](https://www.tradingview.com/chart/?symbol=APGE) | Apogee Therapeutics, Inc. Common Stock | APGE |
-| 23 | 87 | $41.45 | [Chart](https://www.tradingview.com/chart/?symbol=WHD) | Cactus, Inc. | WHD |
-| 16 | 86 | $44.31 | [Chart](https://www.tradingview.com/chart/?symbol=EPI) | WisdomTree India Earnings Fund ETF | EPI |
+| 15 | 87 | $35.45 | [Chart](https://www.tradingview.com/chart/?symbol=AMH) | AMERICAN HOMES 4 RENT | AMH |
+| 17 | 87 | $68.81 | [Chart](https://www.tradingview.com/chart/?symbol=HSIC) | Henry Schein Inc | HSIC |
+| 19 | 87 | $56.28 | [Chart](https://www.tradingview.com/chart/?symbol=SLG) | SL Green Realty Corp. | SLG |
+| 20 | 87 | $80.24 | [Chart](https://www.tradingview.com/chart/?symbol=IR) | Ingersoll Rand Inc. Common Stock | IR |
+| 21 | 87 | $37.05 | [Chart](https://www.tradingview.com/chart/?symbol=APGE) | Apogee Therapeutics, Inc. Common Stock | APGE |
+| 23 | 87 | $41.59 | [Chart](https://www.tradingview.com/chart/?symbol=WHD) | Cactus, Inc. | WHD |
+| 23 | 87 | $22.46 | [Chart](https://www.tradingview.com/chart/?symbol=CURB) | Curbline Properties Corp. | CURB |
 | 19 | 86 | $46.35 | [Chart](https://www.tradingview.com/chart/?symbol=TRUP) | Trupanion, Inc. | TRUP |
 | 22 | 86 | $10.26 | [Chart](https://www.tradingview.com/chart/?symbol=NMCO) | Nuveen Municipal Credit Opportunities Fund | NMCO |
-| 22 | 86 | $10.20 | [Chart](https://www.tradingview.com/chart/?symbol=MUC) | BLACKROCK MUNIHOLDINGS CALIFORNIA QUALITY FUND, INC | MUC |
-| 23 | 86 | $135.15 | [Chart](https://www.tradingview.com/chart/?symbol=DVA) | DaVita Inc. | DVA |
-| 31 | 86 | $24.00 | [Chart](https://www.tradingview.com/chart/?symbol=RTO) | Rentokil Initial plc American Depositary Shares (each representing five (5) Ordinary Shares) | RTO |
-| 17 | 85 | $14.15 | [Chart](https://www.tradingview.com/chart/?symbol=RDY) | Dr. Reddy's Laboratories Limited American Depositary Shares | RDY |
-| 26 | 85 | $25.09 | [Chart](https://www.tradingview.com/chart/?symbol=VRIG) | Invesco Variable Rate Investment Grade ETF | VRIG |
-| 18 | 84 | $37.25 | [Chart](https://www.tradingview.com/chart/?symbol=VNO) | Vornado Realty Trust | VNO |
-| 23 | 84 | $25.74 | [Chart](https://www.tradingview.com/chart/?symbol=WY) | Weyerhaeuser Company | WY |
+| 23 | 86 | $134.91 | [Chart](https://www.tradingview.com/chart/?symbol=DVA) | DaVita Inc. | DVA |
+| 16 | 85 | $44.34 | [Chart](https://www.tradingview.com/chart/?symbol=EPI) | WisdomTree India Earnings Fund ETF | EPI |
+| 21 | 85 | $120.22 | [Chart](https://www.tradingview.com/chart/?symbol=RGEN) | Repligen Corp | RGEN |
+| 23 | 85 | $10.19 | [Chart](https://www.tradingview.com/chart/?symbol=MUC) | BLACKROCK MUNIHOLDINGS CALIFORNIA QUALITY FUND, INC | MUC |
+| 18 | 84 | $37.22 | [Chart](https://www.tradingview.com/chart/?symbol=VNO) | Vornado Realty Trust | VNO |
+| 18 | 84 | $14.18 | [Chart](https://www.tradingview.com/chart/?symbol=RDY) | Dr. Reddy's Laboratories Limited American Depositary Shares | RDY |
+| 20 | 84 | $12.07 | [Chart](https://www.tradingview.com/chart/?symbol=PMT) | PennyMac Mortgage Investment Trust | PMT |
+| 23 | 84 | $25.77 | [Chart](https://www.tradingview.com/chart/?symbol=WY) | Weyerhaeuser Company | WY |
+| 24 | 84 | $11.34 | [Chart](https://www.tradingview.com/chart/?symbol=GSBD) | Goldman Sachs BDC, Inc. | GSBD |
 | 26 | 84 | $23.07 | [Chart](https://www.tradingview.com/chart/?symbol=BSJP) | Invesco BulletShares 2025 High Yield Corporate Bond ETF | BSJP |
-| 28 | 84 | $15.85 | [Chart](https://www.tradingview.com/chart/?symbol=RXO) | RXO, Inc. | RXO |
 | 20 | 83 | $82.06 | [Chart](https://www.tradingview.com/chart/?symbol=AGO) | Assured Guaranty, LTD | AGO |
-| 21 | 83 | $21.46 | [Chart](https://www.tradingview.com/chart/?symbol=KMT) | Kennametal Inc. | KMT |
 | 23 | 82 | $11.06 | [Chart](https://www.tradingview.com/chart/?symbol=FPI) | Farmland Partners Inc. | FPI |
+| 24 | 82 | $110.99 | [Chart](https://www.tradingview.com/chart/?symbol=PPG) | PPG Industries, Inc. | PPG |
 | 27 | 82 | $63.88 | [Chart](https://www.tradingview.com/chart/?symbol=ZROZ) | PIMCO 25+ Year Zero Coupon U.S. Treasury Index Exchange-Traded Fund | ZROZ |
-| 19 | 81 | $72.06 | [Chart](https://www.tradingview.com/chart/?symbol=ADC) | Agree Realty Corporation | ADC |
-| 21 | 81 | $168.77 | [Chart](https://www.tradingview.com/chart/?symbol=DLR) | Digital Realty Trust, Inc. | DLR |
-| 23 | 81 | $70.16 | [Chart](https://www.tradingview.com/chart/?symbol=PYPL) | PayPal Holdings, Inc. Common Stock | PYPL |
-| 25 | 81 | $111.32 | [Chart](https://www.tradingview.com/chart/?symbol=PPG) | PPG Industries, Inc. | PPG |
-| 26 | 80 | $95.12 | [Chart](https://www.tradingview.com/chart/?symbol=GKOS) | Glaukos Corporation | GKOS |
+| 21 | 81 | $168.84 | [Chart](https://www.tradingview.com/chart/?symbol=DLR) | Digital Realty Trust, Inc. | DLR |
+| 23 | 81 | $70.21 | [Chart](https://www.tradingview.com/chart/?symbol=PYPL) | PayPal Holdings, Inc. Common Stock | PYPL |
+| 31 | 81 | $15.95 | [Chart](https://www.tradingview.com/chart/?symbol=RXO) | RXO, Inc. | RXO |
 | 26 | 80 | $29.66 | [Chart](https://www.tradingview.com/chart/?symbol=AMAL) | Amalgamated Financial Corp. Common Stock (DE) | AMAL |
 | 30 | 80 | $40.57 | [Chart](https://www.tradingview.com/chart/?symbol=WLY) | John Wiley & Sons, Inc. Class A | WLY |
-| 35 | 79 | $102.28 | [Chart](https://www.tradingview.com/chart/?symbol=BNTX) | BioNTech SE American Depositary Share | BNTX |
+| 34 | 80 | $102.11 | [Chart](https://www.tradingview.com/chart/?symbol=BNTX) | BioNTech SE American Depositary Share | BNTX |
+| 24 | 79 | $21.71 | [Chart](https://www.tradingview.com/chart/?symbol=KMT) | Kennametal Inc. | KMT |
+| 29 | 79 | $95.60 | [Chart](https://www.tradingview.com/chart/?symbol=GKOS) | Glaukos Corporation | GKOS |
 | 27 | 78 | $20.89 | [Chart](https://www.tradingview.com/chart/?symbol=BKLN) | Invesco Senior Loan ETF | BKLN |
-| 29 | 78 | $181.31 | [Chart](https://www.tradingview.com/chart/?symbol=DOV) | Dover Corporation | DOV |
-| 28 | 77 | $285.17 | [Chart](https://www.tradingview.com/chart/?symbol=AMGN) | Amgen Inc | AMGN |
-| 38 | 77 | $73.56 | [Chart](https://www.tradingview.com/chart/?symbol=GEHC) | GE HealthCare Technologies Inc. Common Stock | GEHC |
-| 28 | 76 | $18.84 | [Chart](https://www.tradingview.com/chart/?symbol=OWL) | Blue Owl Capital Inc. | OWL |
-| 32 | 75 | $48.67 | [Chart](https://www.tradingview.com/chart/?symbol=IP) | International Paper Co. | IP |
-| 29 | 74 | $20.06 | [Chart](https://www.tradingview.com/chart/?symbol=STWD) | STARWOOD PROPERTY TRUST, INC. | STWD |
-| 31 | 72 | $129.93 | [Chart](https://www.tradingview.com/chart/?symbol=ABNB) | Airbnb, Inc. Class A Common Stock | ABNB |
-| 31 | 71 | $42.08 | [Chart](https://www.tradingview.com/chart/?symbol=NNN) | NNN REIT, Inc. | NNN |
+| 27 | 77 | $18.82 | [Chart](https://www.tradingview.com/chart/?symbol=OWL) | Blue Owl Capital Inc. | OWL |
+| 38 | 77 | $73.54 | [Chart](https://www.tradingview.com/chart/?symbol=GEHC) | GE HealthCare Technologies Inc. Common Stock | GEHC |
+| 29 | 76 | $285.87 | [Chart](https://www.tradingview.com/chart/?symbol=AMGN) | Amgen Inc | AMGN |
+| 31 | 76 | $181.96 | [Chart](https://www.tradingview.com/chart/?symbol=DOV) | Dover Corporation | DOV |
+| 29 | 74 | $20.07 | [Chart](https://www.tradingview.com/chart/?symbol=STWD) | STARWOOD PROPERTY TRUST, INC. | STWD |
+| 31 | 71 | $129.92 | [Chart](https://www.tradingview.com/chart/?symbol=ABNB) | Airbnb, Inc. Class A Common Stock | ABNB |
+| 35 | 71 | $48.95 | [Chart](https://www.tradingview.com/chart/?symbol=IP) | International Paper Co. | IP |
 | 34 | 70 | $15.91 | [Chart](https://www.tradingview.com/chart/?symbol=NCDL) | Nuveen Churchill Direct Lending Corp | NCDL |
-| 39 | 69 | $18.41 | [Chart](https://www.tradingview.com/chart/?symbol=ZTO) | ZTO Express (Cayman) Inc. American Depositary Shares, each representing one Class A ordinary share | ZTO |
-| 39 | 63 | $164.50 | [Chart](https://www.tradingview.com/chart/?symbol=AMAT) | Applied Materials Inc | AMAT |
 
 ## **Methodology**
 
